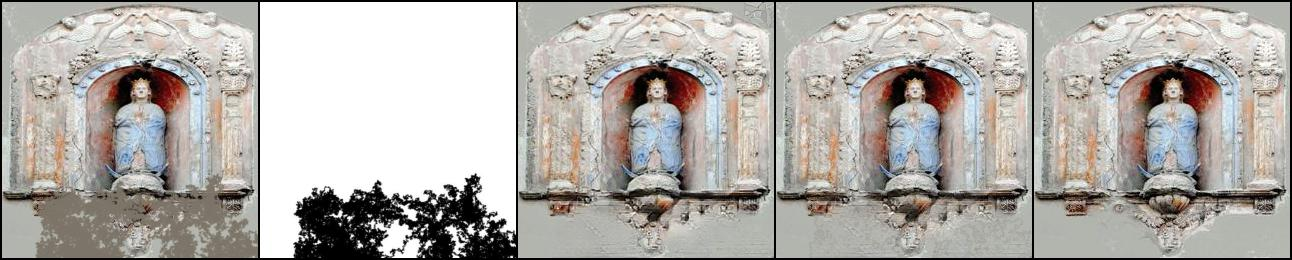
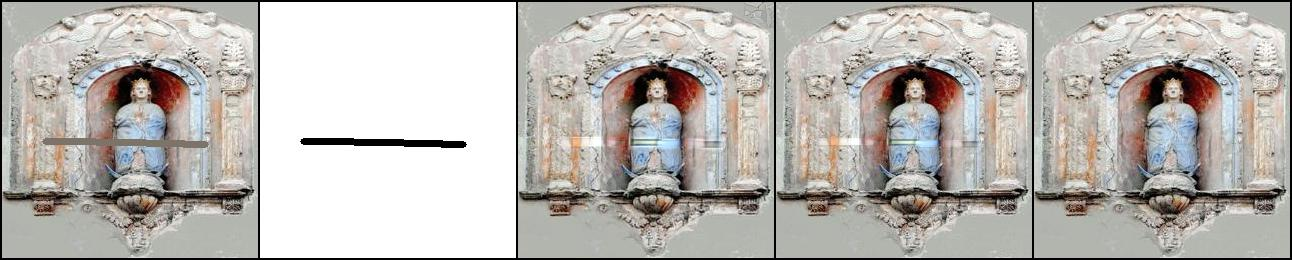
test update file

diff --git a/test.py b/test.py
@@ -24,7 +24,7 @@ img_transform = transforms.Compose(
 mask_transform = transforms.Compose(
     [transforms.Resize(size=size), transforms.ToTensor()])
 
-dataset_val = Places2(args.root,"../masks/", img_transform, mask_transform, 'val')
+dataset_val = Places2(args.root,"./data/mask_root/", img_transform, mask_transform, 'val')
 
 model = PConvUNet().to(device)
 load_ckpt(args.snapshot, [('model', model)])
